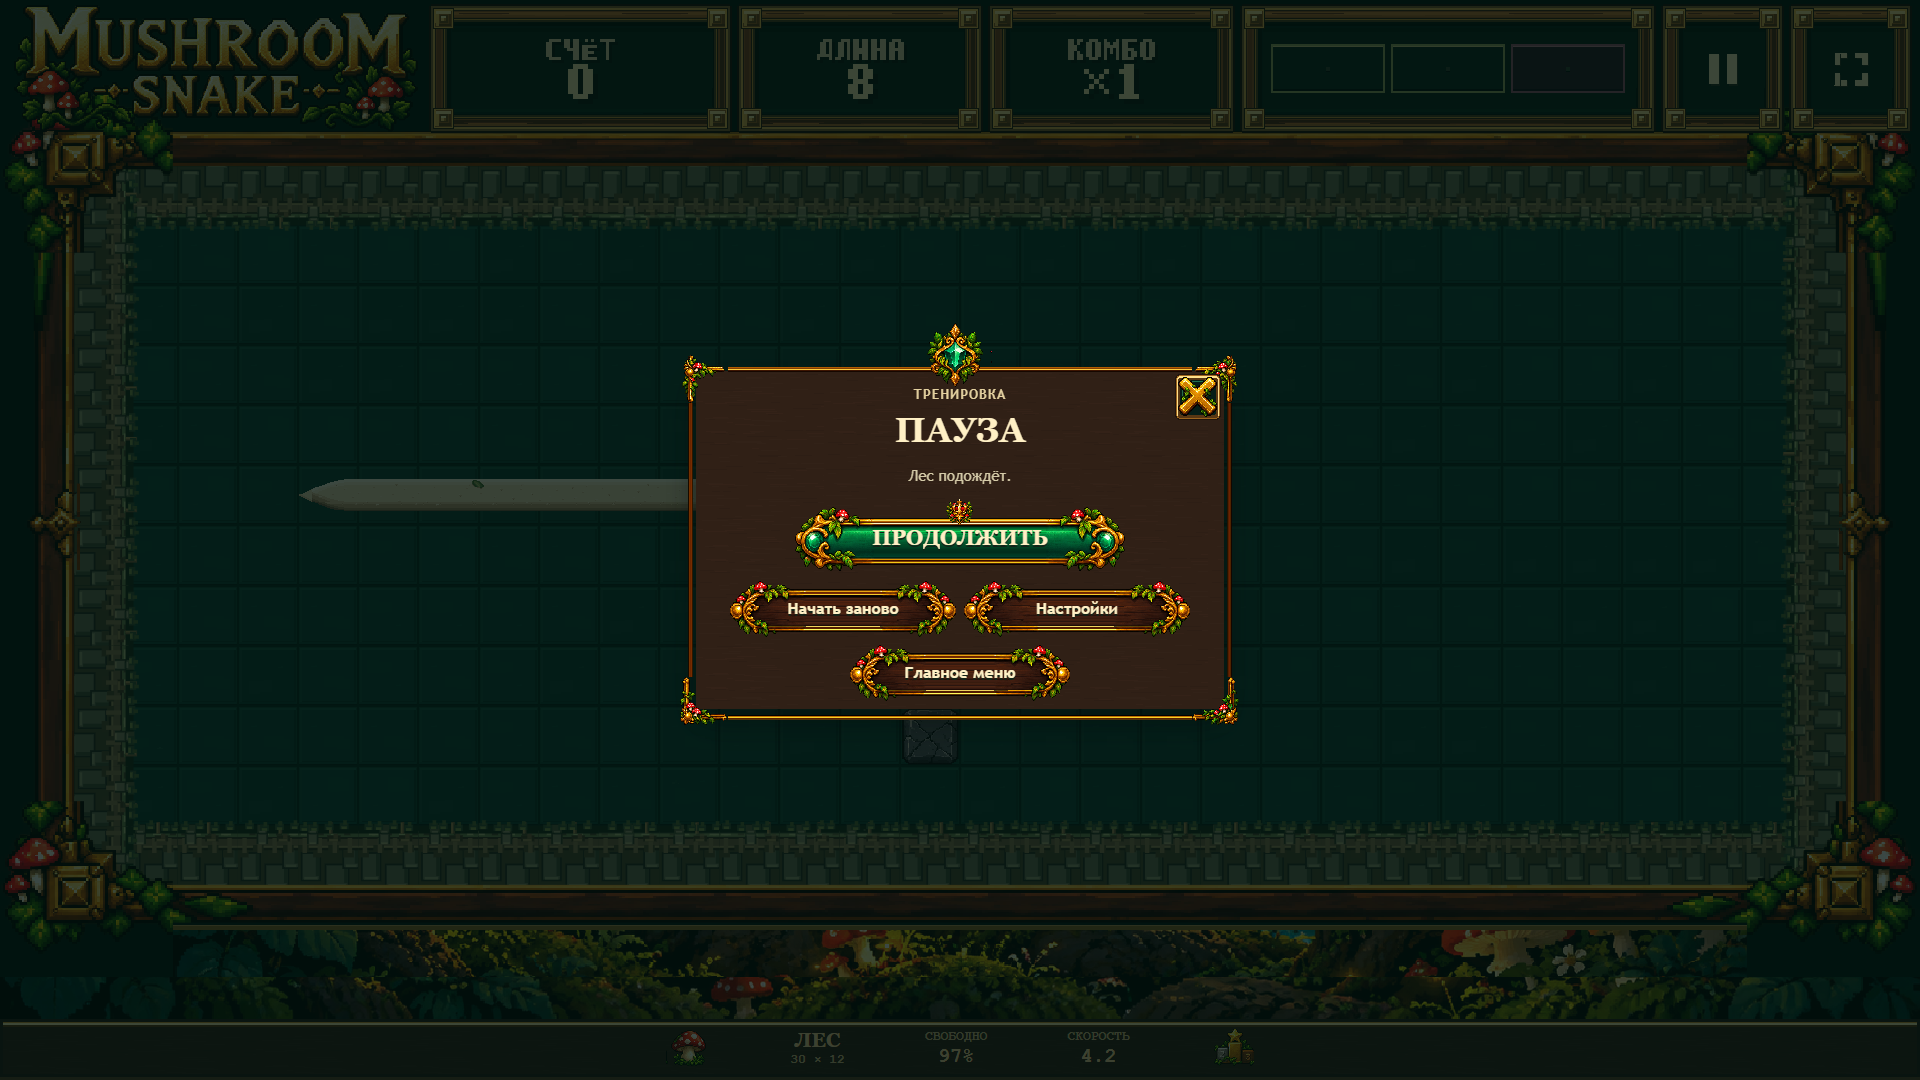
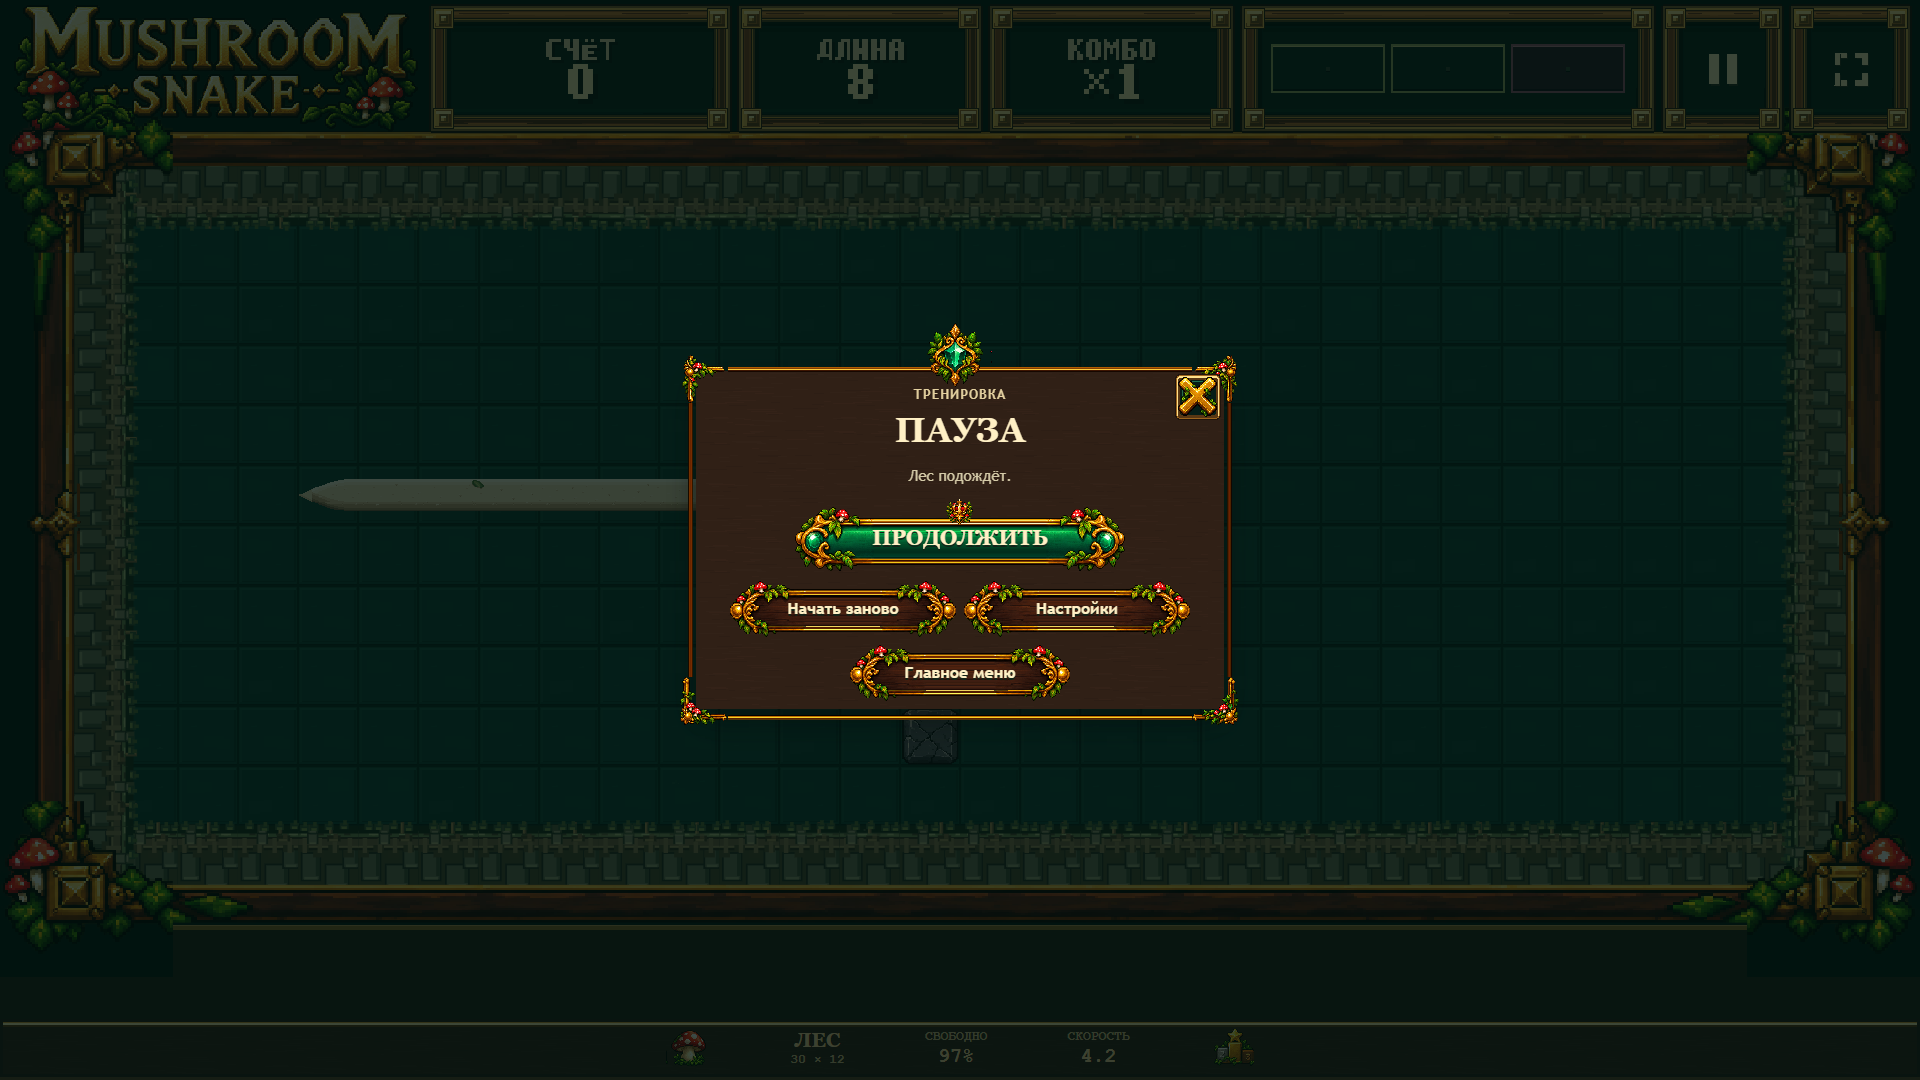
Polish compact Snake cap ownership and verify UI V4 live review

Changed region(s): [[0.2188, 0.8556, 0.5312, 0.9472], [0.7188, 0.8556, 0.9062, 0.9472], [0.625, 0.8556, 0.6875, 0.9167]]

diff --git a/docs/qa/snake-ui-v4/touch-modal-qa.js b/docs/qa/snake-ui-v4/touch-modal-qa.js
@@ -1,8 +1,8 @@
 async page=>{
  const context=await page.context().browser().newContext({viewport:{width:844,height:390},hasTouch:true,isMobile:true}),p=await context.newPage(),errors=[],checks=[];
- p.on('pageerror',e=>errors.push(e.message));const check=(ok,label)=>{if(!ok)throw Error(label);checks.push(label);};
+ p.on('pageerror',e=>errors.push(e.message));await p.emulateMedia({reducedMotion:'reduce'});const check=(ok,label)=>{if(!ok)throw Error(label);checks.push(label);};
  await p.goto('http://127.0.0.1:8776/arcade/snake-next/product/index.html?qa=1');await p.waitForFunction(()=>window.snakeProduct?.controller.screen==='main');await p.locator('[data-action=fullscreen]').tap();
- await p.waitForFunction(()=>!!document.fullscreenElement);await p.evaluate(()=>{document.documentElement.classList.remove('dev-qa');snakeProduct.fixture('settings');});
+ await p.waitForFunction(()=>!!document.fullscreenElement);await p.evaluate(async()=>{document.documentElement.classList.remove('dev-qa');await snakeProduct.fixture('settings');});
  await p.locator('.sound-mix>summary').tap();
  for(const key of ['master','music','sfx']){
   const input=p.locator('[data-setting="'+key+'"]');await input.scrollIntoViewIfNeeded();
@@ -10,7 +10,7 @@ async page=>{
   await input.evaluate(e=>{e.value='.35';e.dispatchEvent(new Event('input',{bubbles:true}));e.dispatchEvent(new Event('change',{bubbles:true}));});
  }
  check(await p.evaluate(()=>['master','music','sfx'].every(k=>snakeProduct.settings[k]===.35)),'all sound channels retained');
- await p.locator('.sound-mix>summary').scrollIntoViewIfNeeded();await p.locator('.sound-mix>summary').tap();await p.screenshot({path:'docs/qa/snake-ui-v4/mobile-settings.png',scale:'css'});
- for(const [state,file]of [['rules-basics','mobile-guide'],['result-training','mobile-result']]){await p.evaluate(state=>snakeProduct.fixture(state),state);await p.screenshot({path:'docs/qa/snake-ui-v4/'+file+'.png',scale:'css'});}
+ await p.locator('.sound-mix>summary').scrollIntoViewIfNeeded();await p.locator('.sound-mix>summary').tap();await p.locator('.panel-heading h1').tap();await p.evaluate(()=>document.querySelector('.panel-body')?.scrollTo(0,0));await p.screenshot({path:'docs/qa/snake-ui-v4/mobile-settings.png',scale:'css'});
+ for(const [state,file]of [['rules-basics','mobile-guide'],['result-training','mobile-result']]){await p.evaluate(state=>snakeProduct.fixture(state),state);await p.waitForFunction(()=>[...document.querySelectorAll('#menu img')].every(e=>e.complete&&e.naturalWidth));await p.screenshot({path:'docs/qa/snake-ui-v4/'+file+'.png',scale:'css'});}
  check(errors.length===0,'no mobile modal page errors');await context.close();return {checks:checks.length,errors};
 }

diff --git a/docs/qa/snake-ui-v4/site-qa.js b/docs/qa/snake-ui-v4/site-qa.js
@@ -12,12 +12,18 @@ async (page,options={}) => {
  const baseMetrics=metrics;
  metrics=async name=>{
   const result=await baseMetrics(name);
+  check(await f.evaluate(()=>[...document.querySelectorAll('.button-cap')].filter(e=>e.getBoundingClientRect().width).every(e=>{const r=e.getBoundingClientRect(),b=e.closest('button').getBoundingClientRect();return r.left>=b.left-1&&r.right<=b.right+1;})),name+' cap ownership');
   const bounds=await f.evaluate(()=>[...document.querySelectorAll('#menu button,.skin-crest')].filter(e=>e.getBoundingClientRect().width).map(e=>{const r=e.getBoundingClientRect();return {key:e.dataset.action||'crest',x:r.x,y:r.y,right:r.right,bottom:r.bottom};}));
   for(const b of bounds){check(b.x>=-1&&b.right<=result.size[0]+1,name+' horizontal bounds '+b.key);if(b.key==='crest')check(b.y>=0&&b.bottom<=result.size[1],name+' crest safe area');}
   return result;
  };
  const m=[];m.push(await metrics('Main embedded'));if(!mobile)await page.screenshot({path:dir+mode+'-main-embedded.png',scale:'css'});
- await action('fullscreen');await page.waitForFunction(()=>!!document.fullscreenElement);m.push(await metrics('Main fullscreen'));if(!mobile)await page.screenshot({path:dir+mode+'-main-fullscreen.png',scale:'css'});
+ await action('fullscreen');await page.waitForFunction(()=>!!document.fullscreenElement);
+ const fullscreenSize=await page.evaluate(()=>[innerWidth,innerHeight]);
+ await f.waitForFunction(([w,h])=>Math.abs(innerWidth-w)<1&&Math.abs(innerHeight-h)<1&&Math.abs(document.querySelector('#cabinet').getBoundingClientRect().width-w)<1,fullscreenSize);
+ await f.evaluate(()=>new Promise(resolve=>requestAnimationFrame(()=>requestAnimationFrame(resolve))));
+ check(true,'fullscreen iframe and cabinet match outer viewport after layout settles');
+ m.push(await metrics('Main fullscreen'));if(!mobile)await page.screenshot({path:dir+mode+'-main-fullscreen.png',scale:'css'});
  await action('training');await f.waitForFunction(()=>document.querySelector('#product').dataset.screen==='playing');const gf=f.childFrames().find(f=>f.url().includes('/product/frame.html'));
  if(mobile){check(await gf.locator('#pad').isVisible(),'D-pad visible');await gf.locator('[data-dir="0"]').tap();await gf.waitForFunction(()=>snakeProductGame.session.state.direction===0);check(true,'D-pad canonical turn');}
  await gf.evaluate(()=>snakeProductGame.pause());await f.waitForFunction(()=>document.querySelector('#product').dataset.screen==='pause');m.push(await metrics('Pause'));

diff --git a/docs/qa/snake-ui-v4/review.html b/docs/qa/snake-ui-v4/review.html
@@ -10,5 +10,5 @@
 <script>
 const rows=[['selector','REF-01 · Arcade selector','selector','selector'],['main','REF-02 · Main desktop','main','main-fullscreen'],['guide','REF-03 · Guide large','guide','guide'],['settings','REF-04 · Settings medium','settings','settings'],['gameplay','REF-05 · Fullscreen gameplay','gameplay','gameplay-fullscreen'],['pause','REF-06 · Pause compact','pause','pause'],['confirm','REF-07 · Restart danger confirmation','confirm','restart'],['result','Дополнительно · Result / New Record','result','result'],['mobile','Mobile844×390 — отдельная композиция','mobile','mobile-main']];
 function show(mode){document.querySelector('#screens').replaceChildren(...rows.map(([id,title,ref,impl])=>{const s=document.createElement('section');s.id=id;const h=document.createElement('h2');h.textContent=title;s.append(h);const pair=document.createElement('div');pair.className='pair';const right=(mode==='local'?(impl==='selector'?'candidate-selector':impl):mode+'-'+impl)+'.png';for(const [src,label] of [['reference-'+ref+'.png','REFERENCE / ART DIRECTION'],[right,mode.toUpperCase()+' IMPLEMENTATION · click → native']]){const f=document.createElement('figure'),a=document.createElement('a'),im=document.createElement('img'),c=document.createElement('figcaption');a.href=src;im.src=src;im.alt=title+' '+label;a.append(im);c.textContent=label;f.append(a,c);pair.append(f);}s.append(pair);return s;}));}
-document.querySelectorAll('[data-mode]').forEach(b=>b.onclick=()=>show(b.dataset.mode));show('local');
+document.querySelectorAll('[data-mode]').forEach(b=>b.onclick=()=>show(b.dataset.mode));show('live');
 </script></html>

diff --git a/docs/qa/snake-ui-v4/native-qa.js b/docs/qa/snake-ui-v4/native-qa.js
@@ -10,6 +10,7 @@ async page => {
    return {screen:document.querySelector('#product').dataset.screen,viewport:[innerWidth,innerHeight],ornaments,buttons,overflow:document.documentElement.scrollWidth>innerWidth+1,panel:document.querySelector('.fantasy-panel')?rect(document.querySelector('.fantasy-panel')):null};
   });
   check(!metrics.overflow,label+': no horizontal overflow');
+  check(await page.evaluate(()=>[...document.querySelectorAll('.button-cap')].filter(e=>e.getBoundingClientRect().width).every(e=>{const r=e.getBoundingClientRect(),b=e.closest('button').getBoundingClientRect();return r.left>=b.left-1&&r.right<=b.right+1;})),label+': cap ink contained in own button');
   for(const a of metrics.ornaments){check(a.nw>0&&a.ratioError<=.02,label+': native aspect '+a.kind);if(a.kind.includes('skin-crest'))check(a.y>=0&&a.y+a.h<=metrics.viewport[1],label+': crest in safe area');}
   for(const b of metrics.buttons){check(b.w>=44&&b.h>=44,label+': touch '+b.action);if(b.close)check(Math.abs(b.w-48)<.1&&Math.abs(b.h-48)<.1,label+': Close exactly 48x48');check(!b.overflow,label+': glyph safe '+b.action);check(b.x>=-1&&b.x+b.w<=metrics.viewport[0]+1,label+': horizontal control bounds '+b.action);check(b.y>=-1&&b.y+b.h<=metrics.viewport[1]+1,label+': controls in viewport '+b.action);if(b.label)check(b.label.x>=b.x+15&&b.label.x+b.label.w<=b.x+b.w-15||b.w===48,label+': label in art '+b.action);}
   await page.screenshot({path:dir+label+'.png',scale:'css'});captures.push({label,...metrics});

diff --git a/arcade/snake-next/product/ui-v4.css b/arcade/snake-next/product/ui-v4.css
@@ -50,6 +50,7 @@
  .main-identity{display:flex;grid-column:1;grid-row:1}
  .main-choices{display:flex;grid-column:2;grid-row:1}
  .main-choices>.actions{grid-column:auto;grid-row:auto;flex-direction:column}
+ .pause-secondary .btn{height:44px;min-height:44px;padding-block:4px;font-size:13px}
 }
 /* Keep independent crest artwork inside the mobile safe area. */
 @container snake-stage (max-width:1100px) or (max-height:600px){

diff --git a/docs/qa/snake-ui-v4/QA.md b/docs/qa/snake-ui-v4/QA.md
@@ -2,13 +2,13 @@
 
 ## Prepublication candidate
 
-Candidate `2.15.33-a4a833b79202`; runtime `snake-next-325e9e5de225`. Rollback remains the actual published start `2.15.33-a67c23267bc6`, never an unpublished draft.
+Initial verified/published candidate: `2.15.33-a4a833b79202` / `snake-next-325e9e5de225`. Final compact-cap follow-up candidate: `2.15.33-ef53fa3846f5` / `snake-next-1cd377655276`. Its rollback is the actually published first V4 `2.15.33-a4a833b79202`, not an unpublished draft.
 
 | Gate | Result |
 | --- | --- |
 | Product + appearance Node tests | 55 passed,0 failed |
-| Native UI browser checks | 457 passed;1920×1080,720×405,436×245,844×390 |
-| Real TEST container, local candidate desktop | 211 passed |
+| Native UI browser checks | 470 passed;1920×1080,720×405,436×245,844×390, including cap ownership |
+| Real TEST container, local candidate desktop | 212 passed (includes fullscreen resize settling gate) |
 | Real TEST container, local candidate touch mobile | 204 passed |
 | Host functional/lifecycle/sponsor/attempt checks | 40 passed |
 | Touch modal/sound controls | 5 passed; all three channel bindings retained |
@@ -29,6 +29,8 @@ No new console/page errors or failed assets in passing candidate runs. Anonymous
 - Source button caps included adjacent atlas rows / near-transparent join columns. Export uses measured row boundaries and opaque join columns; alpha-ink tests supplement aspect tests.
 - Trophy inherited an oversized generic image rule. Scoped exact trophy dimensions.
 - Old local8775 preview server intermittently refused connections. Read-only no-store Node preview at8776 completed the targeted checks. Environment failure did not justify gameplay changes.
+- Initial fullscreen Main screenshot was captured before the host iframe's resize completed. The fullscreen test now waits for iframe AND cabinet dimensions to match the outer viewport, then two presentation frames. Fresh LIVE confirms1920×1080 desktop /844×390 mobile; obsolete transient capture was replaced. No runtime/gameplay fix was needed.
+- At436×245, Pause secondary buttons now use44px uniform-height caps and13px two-line labels. Caps fit within their own buttons, not over neighboring controls. Native and container QA check actual cap ownership as well as aspect.
 
 ## Visual review
 
@@ -36,4 +38,20 @@ Clean native and actual TEST-container stills were inspected, including compact 
 
 ## Publication/LIVE
 
-Pending canonical TEST build verification / safety check / publication / dual-CDN bytes and fresh LIVE desktop-mobile QA. No Production or SQL actions authorized.
+Canonical `build_tilda_test.ps1`, `test_tilda_test.ps1`, `deploy_tilda_test.ps1 -CheckOnly`, `deploy_tilda_test.ps1 -Publish` completed.
+
+- Source checkpoint: `ee10dde`.
+- TEST publication checkpoint: `db2297e`.
+- Published release: `2.15.33-a4a833b79202`.
+- Runtime: `snake-next-325e9e5de225`.
[2 lines of base64/hex data omitted]
+- Pages and S3 agree on release, runtime and actual published rollback. All433 runtime dependencies match SHA-256/size/MIME on BOTH origins; plus runtime manifest =434 immutable files. GitHub Pages deployment of `db2297e` completed successfully.
+- Fresh LIVE desktop context:212 checks; Main iframe settles at1920×1080, all subsequent dialogs also1920×1080.
+- Fresh LIVE touch context:205 checks; fullscreen Main/game/dialogs844×390. Mobile D-pad is visible and sends a canonical turn.
+- No new page/console errors or failed assets. Known anonymous auth health401 is separate baseline. No Fly ranked RPCs.
+- Real LIVE Fly Training/Pause/Result/Hub-return smoke passes.
+- Required external `test_live_deployment.js test`: `TEST: OK, 2.15.33, участников=1904, S3=53, GitHub=0`.
+- Final915-file lock/Fly/Production safety check passes. Production and SQL untouched.
+
+`live-*.png` are screenshots from the published site, with NO runtime/asset route overrides. Local New Record remains a clearly labelled fixture; LIVE Result is an actual canonical Training result. Final reports/screenshots are saved in a separate local review checkpoint; the published gameplay candidate remains `db2297e`. No production-readiness or human-art-approval claim.
